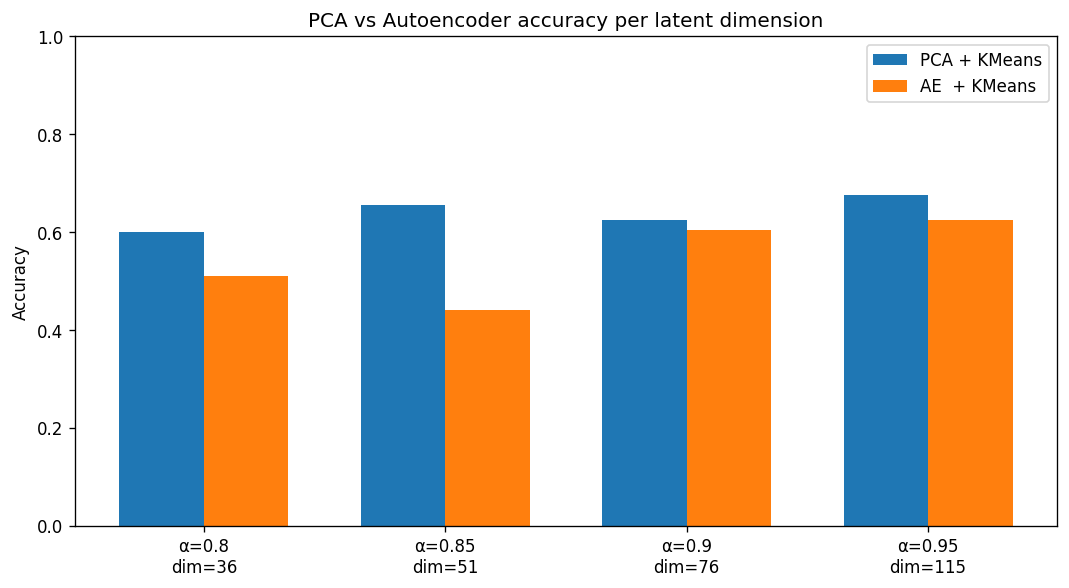
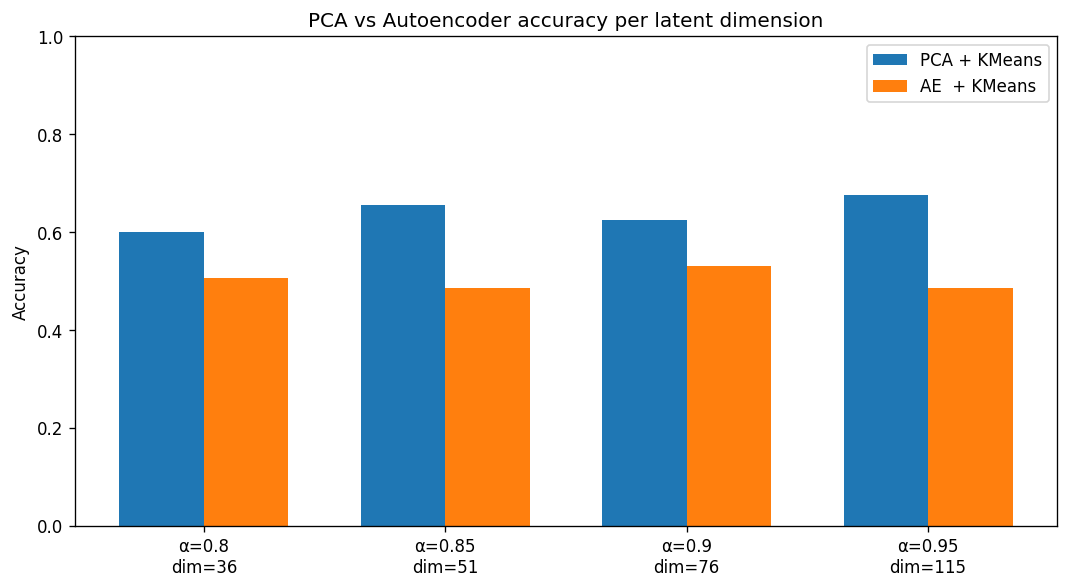
auto encoder fix

diff --git a/autoencoder.py b/autoencoder.py
@@ -9,45 +9,19 @@ class Autoencoder:
         self.lr         = lr
         self.rng        = np.random.default_rng(seed)
 
-        # Glorot uniform init — Keras Dense default
+        # Glorot uniform init
         def glorot(fan_in, fan_out):
             limit = np.sqrt(6.0 / (fan_in + fan_out))
             return self.rng.uniform(-limit, limit, (fan_in, fan_out))
 
-        # Encoder weights
-        self.W1 = glorot(input_dim,  latent_dim)   # (D, L)
+        self.W1 = glorot(input_dim, latent_dim)
         self.b1 = np.zeros((1, latent_dim))
 
-        # Decoder weights
-        self.W2 = glorot(latent_dim, input_dim)    # (L, D)
+        self.W2 = glorot(latent_dim, input_dim)
         self.b2 = np.zeros((1, input_dim))
 
-        # Adam moment buffers
-        self._init_adam()
+    # ---------------- Activations ---------------- #
 
-    def _init_adam(self):
-        self.t     = 0
-        self.beta1 = 0.9
-        self.beta2 = 0.999
-        self.eps   = 1e-7          # Keras default (not 1e-8)
-
-        z = np.zeros_like
-        self.mW1, self.vW1 = z(self.W1), z(self.W1)
-        self.mb1, self.vb1 = z(self.b1), z(self.b1)
-        self.mW2, self.vW2 = z(self.W2), z(self.W2)
-        self.mb2, self.vb2 = z(self.b2), z(self.b2)
-
-    def _adam(self, param, grad, m, v):
-        m = self.beta1 * m + (1 - self.beta1) * grad
-        v = self.beta2 * v + (1 - self.beta2) * grad ** 2
-        m_hat = m / (1 - self.beta1 ** self.t)
-        v_hat = v / (1 - self.beta2 ** self.t)
-        param -= self.lr * m_hat / (np.sqrt(v_hat) + self.eps)
-        return param, m, v
-
-    # ------------------------------------------------------------------ #
-    #  Activations                                                        #
-    # ------------------------------------------------------------------ #
     def _relu(self, x):
         return np.maximum(0.0, x)
 
@@ -61,58 +35,66 @@ class Autoencoder:
         s = self._sigmoid(x)
         return s * (1 - s)
 
-    # ------------------------------------------------------------------ #
-    #  Forward                                                            #
-    # ------------------------------------------------------------------ #
+    # ---------------- Forward ---------------- #
+
     def forward(self, X):
-        # Encoder
         self.z1  = X @ self.W1 + self.b1
         self.a1  = self._relu(self.z1)
-        # Decoder
+
         self.z2  = self.a1 @ self.W2 + self.b2
         self.out = self._sigmoid(self.z2)
+
         return self.out
 
-    # ------------------------------------------------------------------ #
-    #  Backward + Adam update                                             #
-    # ------------------------------------------------------------------ #
+    # ---------------- Backward (SGD) ---------------- #
+
     def backward(self, X, out):
         n = X.shape[0]
 
-        # MSE gradient: d/d(out) of mean((out - X)^2)
+        # Loss gradient (MSE)
         dout = 2.0 * (out - X) / n
 
-        # Decoder
+        # Decoder gradients
         dz2 = dout * self._sigmoid_grad(self.z2)
         dW2 = self.a1.T @ dz2
         db2 = dz2.sum(axis=0, keepdims=True)
 
-        # Encoder
+        # Encoder gradients
         da1 = dz2 @ self.W2.T
         dz1 = da1 * self._relu_grad(self.z1)
         dW1 = X.T @ dz1
         db1 = dz1.sum(axis=0, keepdims=True)
 
-        # Adam updates
-        self.t += 1
-        self.W2, self.mW2, self.vW2 = self._adam(self.W2, dW2, self.mW2, self.vW2)
-        self.b2, self.mb2, self.vb2 = self._adam(self.b2, db2, self.mb2, self.vb2)
-        self.W1, self.mW1, self.vW1 = self._adam(self.W1, dW1, self.mW1, self.vW1)
-        self.b1, self.mb1, self.vb1 = self._adam(self.b1, db1, self.mb1, self.vb1)
+        # ---------------- SGD UPDATE ---------------- #
+        self.W2 -= self.lr * dW2
+        self.b2 -= self.lr * db2
+
+        self.W1 -= self.lr * dW1
+        self.b1 -= self.lr * db1
+
+    # ---------------- Training ---------------- #
 
     def fit(self, X, epochs=100, batch_size=32, verbose=True):
         n = X.shape[0]
+
         for epoch in range(epochs):
             idx = self.rng.permutation(n)
-            X   = X[idx]
+            X = X[idx]
+
             total_loss = 0.0
+
             for i in range(0, n, batch_size):
-                Xb   = X[i : i + batch_size]
-                out  = self.forward(Xb)
+                Xb = X[i:i + batch_size]
+
+                out = self.forward(Xb)
                 total_loss += np.mean((Xb - out) ** 2) * len(Xb)
+
                 self.backward(Xb, out)
+
             if verbose and epoch % 10 == 0:
                 print(f"Epoch {epoch:4d} | Loss = {total_loss / n:.6f}")
+
+    # ---------------- Utilities ---------------- #
 
     def encode(self, X):
         z1 = X @ self.W1 + self.b1
